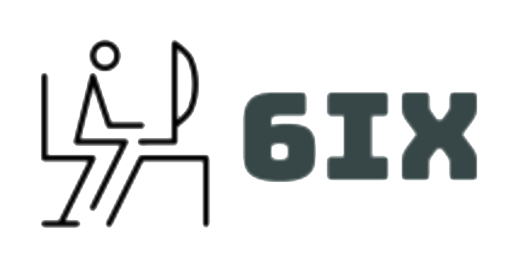
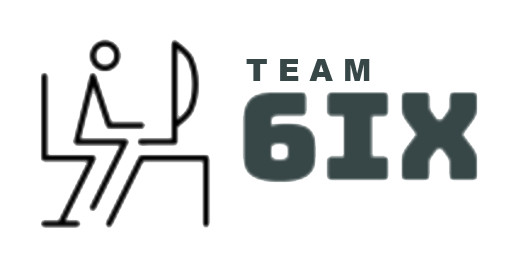
Some layout and UI changes

Changed region(s): [[0.4724, 0.209, 0.6496, 0.3284], [0.6791, 0.209, 0.7382, 0.2985]]

diff --git a/src/adminTools/maintainStaff.js b/src/adminTools/maintainStaff.js
@@ -25,7 +25,7 @@ import CardContent from '@material-ui/core/CardContent';
 import Switch from '@material-ui/core/Switch';
 import Grow from '@material-ui/core/Grow';
 import FormControlLabel from '@material-ui/core/FormControlLabel';
-import HighlightOffRoundedIcon from '@material-ui/icons/HighlightOffRounded';
+import DeleteSweepRoundedIcon from '@material-ui/icons/DeleteSweepRounded';
 
 
 const styles = theme => ({
@@ -207,11 +207,11 @@ class MaintainStaff extends React.Component {
                     </CardContent>
                     <CardActions style={{ justifyContent: 'center' }}>
                         <Button
-                         startIcon={<HighlightOffRoundedIcon/>}
+                         startIcon={<DeleteSweepRoundedIcon/>}
                          variant="outlined"
                          color="secondary"
                          size="small"
-                         onClick={() => {this.deleteUser(user.username)}}>Delete User
+                         onClick={() => {this.deleteUser(user.username)}}>Remove User
                         </Button>
                     </CardActions>
                   </Card>

diff --git a/src/managerTools/CommissionRate.js b/src/managerTools/CommissionRate.js
@@ -71,7 +71,7 @@ class CommissionRate extends React.Component {
             {
               this.state.commissionRates.map(rate => (
                 <ListItem key={rate._id}>
-                  <ListItemText secondary={`Commission rate: ${rate.rate}%`}/>
+                  <ListItemText secondary={`Commission rate - ${rate.rate}%`}/>
                   <ListItemSecondaryAction>
                     <IconButton edge="end" aria-label="comments"
                       onClick={() => {this.deleteCommissionRate(rate._id)}}

diff --git a/src/pages/LandingPage.js b/src/pages/LandingPage.js
@@ -15,7 +15,7 @@ function LandingPage() {
 
       <br/>
 
-      <h3> System brought to you by </h3>
+      <h3> Design with <span role="img" aria-label="sheep">♡</span> in London by</h3>
       <img alt='Team 6ix' style={{ width: '200px' }} src={TeamPic}/>
 
       <br/> <br/>

diff --git a/src/adminTools/manageAgency.js b/src/adminTools/manageAgency.js
@@ -20,6 +20,7 @@ import MenuItem from "@material-ui/core/MenuItem";
 import Select from "@material-ui/core/Select";
 import InputLabel from "@material-ui/core/InputLabel"
 
+
 class ManageAgency extends React.Component {
   constructor (props) {
     super(props)
